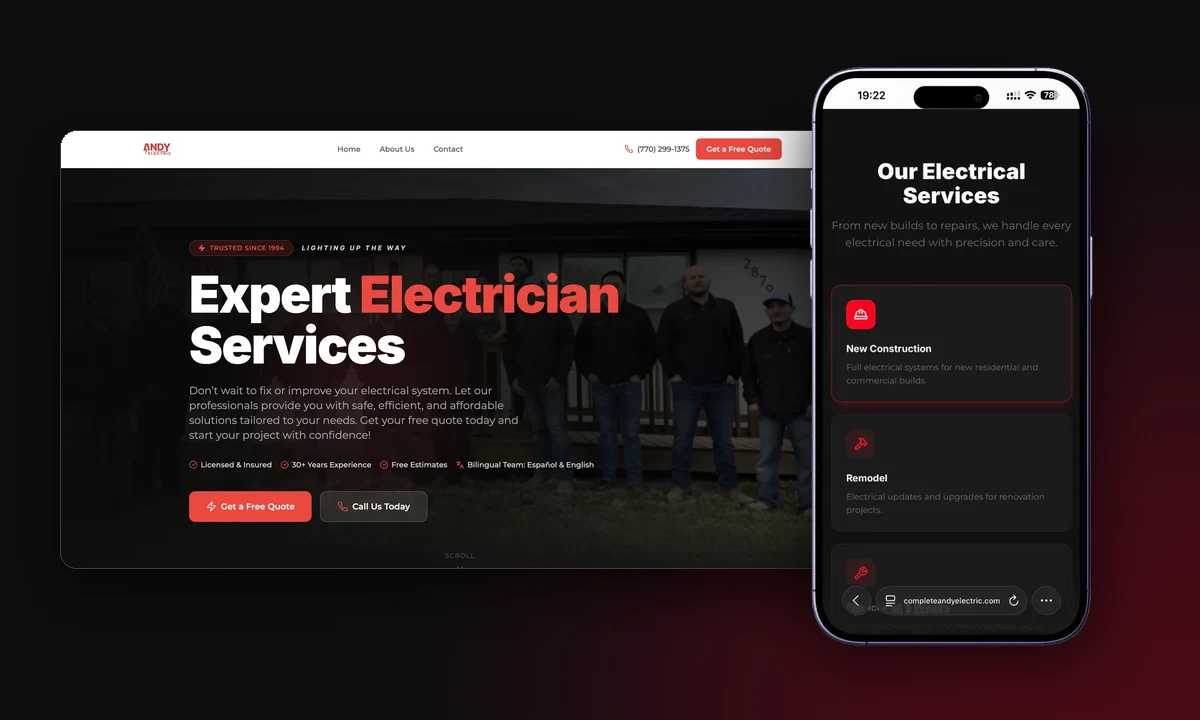
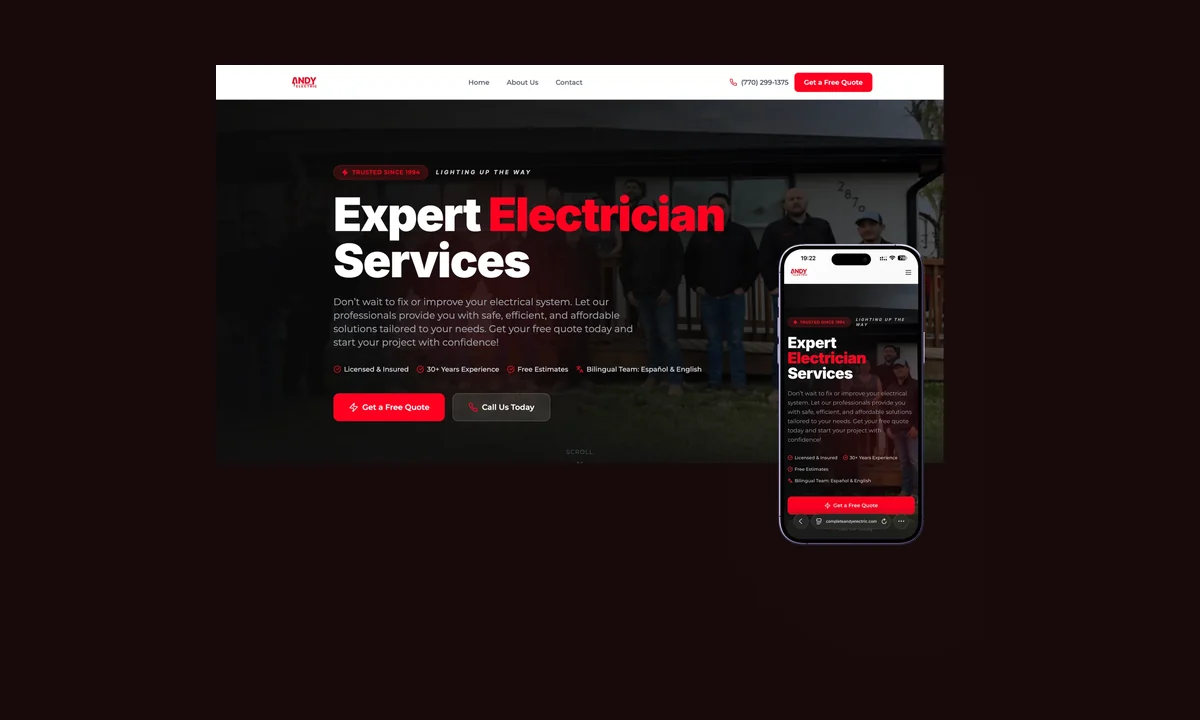
Portadas: título y puntos clave en cada caso, pantallas completas sin recorte
Cada caso abre con un título corto y tres puntos (fr/en/es) junto a la
imagen. Nuevas composiciones para Andy, Ublo, Bellpi, JumboMana y Spotify
con las pantallas enteras, usadas también en las cards del Home.

Claude-Session: https://claude.ai/code/session_01BbjSfeKB5Ss7SAz8rEvxyb

Changed region(s): [[0.0308, 0.0917, 1.0, 1.0], [0.37, 0.7639, 0.4008, 0.7944]]

diff --git a/projects/iridian/index.html b/projects/iridian/index.html
@@ -177,7 +177,7 @@
 <h1 class="cs-title">Iridian</h1>
 <p class="cs-role" data-i18n="iridian.role2">Partenaire technologique · Logiciel, données et IA</p>
 <p class="cs-kicker">Product Designer · 2023-2024</p>
-<figure class="cs-cover"><div class="cs-ph cs-ph--cover" role="img" aria-label="Iridian, aperçu des projets" data-i18n-aria-label="iridian.img1"><span data-i18n="iridian.img1">Iridian, aperçu des projets</span></div></figure>
+<figure class="cs-cover cs-cover--hero"><figcaption class="cs-hero"><p class="cs-hero__title" data-i18n="hero.iridian.title">Des systèmes que les entreprises font tourner chaque jour</p><ul class="cs-hero__list"><li data-i18n="hero.iridian.b1">Plateformes sur mesure, intégration ERP et CRM</li><li data-i18n="hero.iridian.b2">Données, BI, IA et automatisation</li><li data-i18n="hero.iridian.b3">Clients en Amérique latine, aux États-Unis et en Europe</li></ul></figcaption><div class="cs-hero__media"><div class="cs-ph cs-ph--cover" role="img" aria-label="Iridian, aperçu des projets" data-i18n-aria-label="iridian.img1"><span data-i18n="iridian.img1">Iridian, aperçu des projets</span></div></div></figure>
 <h2 class="cs-heading cs-heading--context" data-i18n="andy-electric.t011">Contexte</h2>
 <p class="cs-body" data-i18n="iridian.p1">Iridian est un partenaire technologique qui conçoit, construit et opère des systèmes critiques pour des entreprises en Amérique latine, aux États-Unis et en Europe. L'entreprise ne se présente pas comme une agence de projets, mais comme un partenaire sur le long terme.</p>
 <p class="cs-body" data-i18n="iridian.p2">Ses expertises couvrent quatre domaines : les systèmes et plateformes sur mesure (intégration ERP et CRM, cloud), les données et la business intelligence, l'IA et l'automatisation des processus, et l'opération des systèmes en production. Ses études de cas touchent le retail, l'oil &amp; gas, l'éducation, la logistique ou encore le gaming.</p>

diff --git a/projects/qualnet/index.html b/projects/qualnet/index.html
@@ -177,7 +177,7 @@
 <h1 class="cs-title">Qualnet</h1>
 <p class="cs-role" data-i18n="qualnet.role">Éditeur français de logiciels qualité · Groupe Imagine Human</p>
 <p class="cs-kicker" data-i18n="h2.r.qualnet">Product Owner · 2026 à aujourd'hui</p>
-<figure class="cs-cover"><img alt="Qualnet, aperçu du logiciel" data-i18n-alt="qualnet.img1" decoding="async" fetchpriority="high" height="720" src="../../public/cover-qualnet.webp" width="1200"/></figure>
+<figure class="cs-cover cs-cover--hero"><figcaption class="cs-hero"><p class="cs-hero__title" data-i18n="hero.qualnet.title">Faire évoluer une suite qualité no-code</p><ul class="cs-hero__list"><li data-i18n="hero.qualnet.b1">Backlog produit et sprints de deux semaines</li><li data-i18n="hero.qualnet.b2">IA intégrée à la plateforme</li><li data-i18n="hero.qualnet.b3">Gestion documentaire, audits, non-conformités</li></ul></figcaption><div class="cs-hero__media"><img alt="Qualnet, aperçu du logiciel" data-i18n-alt="qualnet.img1" decoding="async" fetchpriority="high" height="720" src="../../public/cover-qualnet.webp" width="1200"/></div></figure>
 <h2 class="cs-heading cs-heading--context" data-i18n="andy-electric.t011">Contexte</h2>
 <p class="cs-body" data-i18n="qualnet.p1">Qualnet est un éditeur français de logiciels qualité créé en 1997, qui a rejoint le groupe Imagine Human en 2026. Ses solutions no-code aident les organisations privées et publiques à simplifier, structurer et piloter leurs démarches qualité.</p>
 <p class="cs-body" data-i18n="qualnet.p2">La suite couvre la gestion documentaire qualité (Qualnet DOC), la dématérialisation des processus (Qualnet DYNAMIC) et le management de la qualité : non-conformités, audits, plans d'actions, évaluation des fournisseurs et indicateurs. Elle est proposée en SaaS ou on-premise et utilisée dans la santé, l'agroalimentaire, la pharmacie, la banque-assurance et l'industrie.</p>

diff --git a/styles/case-theme.css b/styles/case-theme.css
@@ -1346,3 +1346,74 @@ body[data-page] .cs-carousel.cs-mcarousel {
 body[data-page] .cs-hide-m {
   display: none !important;
 }
+
+/* ── Portada con título y puntos clave (todos los casos, 2026-11-14) ──
+   Texto a la izquierda, pantallas completas a la derecha (sin recorte, sin pasar su tamaño real). */
+body[data-page] {
+  --cs-hero-bg: #111;
+  --cs-hero-ink: #f2f2f2;
+  --cs-hero-muted: #c4c4c4;
+}
+body[data-page] .cs-cover--hero {
+  display: grid;
+  grid-template-columns: minmax(0, 4fr) minmax(0, 7fr);
+  align-items: center;
+  gap: clamp(24px, 4vw, 56px);
+  padding: clamp(24px, 4vw, 56px);
+  background: var(--cs-hero-bg);
+  color: var(--cs-hero-ink);
+}
+body[data-page] .cs-hero__title {
+  margin: 0 0 20px;
+  font-size: clamp(22px, 2.2vw, 30px);
+  line-height: 1.2;
+  font-weight: 600;
+  color: var(--cs-hero-ink);
+}
+body[data-page] .cs-hero__list {
+  display: grid;
+  gap: 12px;
+  margin: 0;
+  padding: 0;
+  list-style: none;
+  font-size: 15px;
+  line-height: 1.45;
+  color: var(--cs-hero-muted);
+}
+body[data-page] .cs-hero__list li {
+  position: relative;
+  padding-left: 20px;
+}
+body[data-page] .cs-hero__list li::before {
+  content: "";
+  position: absolute;
+  left: 0;
+  top: 0.7em;
+  width: 10px;
+  height: 1px;
+  background: var(--cs-accent);
+}
+body[data-page] .cs-hero__media {
+  display: flex;
+  justify-content: center;
+  min-width: 0;
+}
+body[data-page] .cs-cover--hero img {
+  width: auto;
+  max-width: 100%;
+  height: auto;
+  max-height: 460px;
+  aspect-ratio: auto;
+  object-fit: contain;
+}
+body[data-page] .cs-cover--hero .cs-ph--cover {
+  width: 100%;
+}
+@media (max-width: 768px) {
+  body[data-page] .cs-cover--hero {
+    grid-template-columns: 1fr;
+  }
+  body[data-page] .cs-cover--hero img {
+    max-height: 360px;
+  }
+}

diff --git a/projects/spotify/index.html b/projects/spotify/index.html
@@ -176,7 +176,7 @@
 <h1 class="cs-title" data-i18n="spotify.title">Spotify</h1>
 <p class="cs-role" data-i18n="spotify.role">Repenser trois moments de l'expérience Spotify</p>
 <p class="cs-kicker" data-i18n="spotify.kicker">UX/UI Designer · Bootcamp Coderhouse · 2023</p>
-<figure class="cs-cover"><img alt="Spotify, les trois fonctionnalités : paiements, playlists et communauté" decoding="async" fetchpriority="high" height="720" src="../../public/cover-spotify.webp" width="1200"/></figure>
+<figure class="cs-cover cs-cover--hero"><figcaption class="cs-hero"><p class="cs-hero__title" data-i18n="hero.spotify.title">Trois moments de Spotify, repensés</p><ul class="cs-hero__list"><li data-i18n="hero.spotify.b1">Changer de moyen de paiement sans quitter l'app</li><li data-i18n="hero.spotify.b2">Noter et commenter un épisode de podcast</li><li data-i18n="hero.spotify.b3">Enregistrer une chanson dans une playlist en trois gestes</li></ul></figcaption><div class="cs-hero__media"><img alt="Spotify, les trois fonctionnalités : paiements, playlists et communauté" decoding="async" fetchpriority="high" height="1035" src="../../public/hero-spotify.webp" width="1600"/></div></figure>
 <h2 class="cs-heading cs-heading--context" data-i18n="andy-electric.t011">Contexte</h2>
 <p class="cs-body cs-lead"><strong data-i18n="spotify.ctx.lead">Je redessine Spotify parce que l'expérience ne se limite pas à écouter de la musique.</strong></p>
 <p class="cs-body" data-i18n="spotify.ctx.body">Projet du bootcamp UX/UI de Coderhouse : repenser trois moments de l'application Spotify à partir de ce que vivent vraiment ses utilisateurs, de l'enquête aux écrans finaux. Le cas commence par le résultat, les trois fonctionnalités, puis raconte comment j'y suis arrivé en concevant et en testant.</p>

diff --git a/projects/ublo/index.html b/projects/ublo/index.html
@@ -177,7 +177,7 @@
 <h1 class="cs-title" data-i18n="ublo.t002">Ublo</h1>
 <p class="cs-role" data-i18n="ublo.t003">Plateforme de gestion immobilière · France</p>
 <p class="cs-kicker" data-i18n="ublo.t001">UX Designer · 2024-2025</p>
-<figure class="cs-cover"><img alt="Ublo, aperçu du projet" decoding="async" fetchpriority="high" height="720" src="../../public/cover-ublo.webp" width="1200"/></figure>
+<figure class="cs-cover cs-cover--hero"><figcaption class="cs-hero"><p class="cs-hero__title" data-i18n="hero.ublo.title">Rendre la gestion locative plus lisible</p><ul class="cs-hero__list"><li data-i18n="hero.ublo.b1">Plus de 15 fonctionnalités et 20 améliorations livrées</li><li data-i18n="hero.ublo.b2">Audit UX complet de la plateforme</li><li data-i18n="hero.ublo.b3">Rédaction UX et spécifications prêtes pour le développement</li></ul></figcaption><div class="cs-hero__media"><img alt="Ublo, aperçu du projet" decoding="async" fetchpriority="high" height="880" src="../../public/hero-ublo.webp" width="1600"/></div></figure>
 <h2 class="cs-heading cs-heading--context" data-i18n="andy-electric.t011">Contexte</h2>
 <p class="cs-body" data-i18n-html="ublo.t004">En tant qu'UX Designer au sein de l'équipe Ublo, une <strong>plateforme de gestion immobilière basée en France avec plus de 2 000 utilisateurs et 20 clients dans tout le pays</strong>, mon rôle consistait à améliorer continuellement l'interface et l'expérience utilisateur globale.</p>
 <p class="cs-body" data-i18n-html="ublo.t005">J'ai travaillé de manière itérative sur plus de <strong>15 nouvelles fonctionnalités et 20 améliorations de la plateforme</strong>, apportant des améliorations continues directement alignées sur les retours clients et les exigences métier.</p>

diff --git a/projects/bellpi/index.html b/projects/bellpi/index.html
@@ -177,7 +177,7 @@
 <h1 class="cs-title" data-i18n="bellpi.t002">Bellpi</h1>
 <p class="cs-role" data-i18n="bellpi.t003">Plateforme e-commerce · Véhicules d'occasion · Colombie</p>
 <p class="cs-kicker" data-i18n="bellpi.t001">UX &amp; Service Designer · 2024</p>
-<figure class="cs-cover"><img alt="Bellpi, aperçu du projet" decoding="async" fetchpriority="high" height="720" src="../../public/cover-bellpi.webp" width="1200"/></figure>
+<figure class="cs-cover cs-cover--hero"><figcaption class="cs-hero"><p class="cs-hero__title" data-i18n="hero.bellpi.title">Acheter une voiture d'occasion sans intermédiaire</p><ul class="cs-hero__list"><li data-i18n="hero.bellpi.b1">Lancement de la version 1 de la plateforme</li><li data-i18n="hero.bellpi.b2">Parcours d'achat, de vente et de reprise</li><li data-i18n="hero.bellpi.b3">Bornes interactives en point de vente</li></ul></figcaption><div class="cs-hero__media"><img alt="Bellpi, aperçu du projet" decoding="async" fetchpriority="high" height="1200" src="../../public/hero-bellpi.webp" width="1315"/></div></figure>
 <h2 class="cs-heading cs-heading--context" data-i18n="andy-electric.t011">Contexte</h2>
 <p class="cs-body" data-i18n="bellpi.t004">Bellpi est une plateforme e-commerce innovante de vente et d'achat de véhicules d'occasion en Colombie, visant à transformer une expérience traditionnellement complexe en un parcours numérique 100 % centré utilisateur.</p>
 <p class="cs-body" data-i18n="bellpi.t005">En tant que UX &amp; Service Designer, j'ai contribué au lancement de la version 1 de la plateforme et à ses itérations successives :</p>

diff --git a/projects/jumbomana/index.html b/projects/jumbomana/index.html
@@ -176,7 +176,7 @@
 <h1 class="cs-title" data-i18n="jumbomana.t002">JumboMana</h1>
 <p class="cs-role" data-i18n="jumbomana.t003">Assistant IA · Aéroport Lyon-Saint-Exupéry</p>
 <p class="cs-kicker" data-i18n="jumbomana.t001">UX Designer · 2024</p>
-<figure class="cs-cover"><img alt="JumboMana, aperçu du projet" decoding="async" fetchpriority="high" height="720" src="../../public/cover-jumbo.webp" width="1200"/></figure>
+<figure class="cs-cover cs-cover--hero"><figcaption class="cs-hero"><p class="cs-hero__title" data-i18n="hero.jumbo.title">Un assistant IA pour s'orienter à l'aéroport</p><ul class="cs-hero__list"><li data-i18n="hero.jumbo.b1">Deux supports : borne tactile et mobile</li><li data-i18n="hero.jumbo.b2">Langue, son, restaurants et itinéraire en quelques gestes</li><li data-i18n="hero.jumbo.b3">Prototype testé sur les tâches clés</li></ul></figcaption><div class="cs-hero__media"><img alt="JumboMana, aperçu du projet" decoding="async" fetchpriority="high" height="1102" src="../../public/hero-jumbo.webp" width="1600"/></div></figure>
 <h2 class="cs-heading cs-heading--context" data-i18n="andy-electric.t011">Contexte</h2>
 <p class="cs-body" data-i18n="jumbomana.t004">Le défi était de concevoir une expérience claire et engageante, capable de capter l'attention dans un environnement aussi fréquenté sans être confondue avec de la publicité. L'interface devait faciliter une compréhension rapide des fonctionnalités, garantir une utilisation fluide et compléter efficacement les systèmes d'information existants à l'aéroport.</p>
 <ul class="cs-list cs-list--strong">

diff --git a/projects/bnf/index.html b/projects/bnf/index.html
@@ -176,7 +176,7 @@
 <h1 class="cs-title" data-i18n="bnf.t002">Musée de la BnF</h1>
 <p class="cs-role" data-i18n="bnf.t003">Jumeau numérique · Patrimoine culturel</p>
 <p class="cs-kicker" data-i18n="bnf.t001">UX Designer &amp; Service Designer · 2024</p>
-<figure class="cs-cover"><img alt="Musée de la BnF, aperçu du projet" decoding="async" fetchpriority="high" height="720" src="../../public/cover-bnf.webp" width="1200"/></figure>
+<figure class="cs-cover cs-cover--hero"><figcaption class="cs-hero"><p class="cs-hero__title" data-i18n="hero.bnf.title">Visiter le site Richelieu de la BnF depuis un écran</p><ul class="cs-hero__list"><li data-i18n="hero.bnf.b1">Jumeau numérique du bâtiment et des collections</li><li data-i18n="hero.bnf.b2">Analyse comparative d'expériences culturelles digitales</li><li data-i18n="hero.bnf.b3">Projet de master, Sorbonne, 2024</li></ul></figcaption><div class="cs-hero__media"><img alt="Musée de la BnF, aperçu du projet" decoding="async" fetchpriority="high" height="720" src="../../public/cover-bnf.webp" width="1200"/></div></figure>
 <h2 class="cs-heading cs-heading--context" data-i18n="andy-electric.t011">Contexte</h2>
 <p class="cs-body" data-i18n="bnf.t004">Application web conçue pour créer un jumeau numérique mettant en valeur le patrimoine architectural et les collections du site Richelieu de la Bibliothèque nationale de France. Le projet vise à offrir une expérience culturelle immersive combinant visite virtuelle 3D, découverte des collections et streaming de contenus documentaires.</p>
 <div class="cs-img-box cs-only-mobile">

diff --git a/projects/paramo/index.html b/projects/paramo/index.html
@@ -177,7 +177,7 @@
 <h1 class="cs-title" data-i18n="paramo.t001">ParamoTotem</h1>
 <p class="cs-role" data-i18n="paramo.t002">Experience Designer</p>
 <p class="cs-kicker" data-i18n="paramo.t005">Projet expérimental</p>
-<figure class="cs-cover"><img alt="ParamoTotem, aperçu du projet" decoding="async" fetchpriority="high" height="720" src="../../public/cover-paramo.webp" width="1200"/></figure>
+<figure class="cs-cover cs-cover--hero"><figcaption class="cs-hero"><p class="cs-hero__title" data-i18n="hero.paramo.title">Le páramo colombien, station par station</p><ul class="cs-hero__list"><li data-i18n="hero.paramo.b1">Installation immersive et interactive</li><li data-i18n="hero.paramo.b2">Une station par espèce emblématique</li><li data-i18n="hero.paramo.b3">Projet expérimental</li></ul></figcaption><div class="cs-hero__media"><img alt="ParamoTotem, aperçu du projet" decoding="async" fetchpriority="high" height="720" src="../../public/cover-paramo.webp" width="1200"/></div></figure>
 <h2 class="cs-heading cs-heading--context" data-i18n="andy-electric.t011">Contexte</h2>
 <p class="cs-body" data-i18n="paramo.t003">Projet expérimental conçu pour créer une expérience immersive et interactive inspirée des écosystèmes naturels du páramo colombien, à travers des stations thématiques dédiées à chaque espèce emblématique.</p>
 <ul class="cs-list">

diff --git a/projects/andy-electric/index.html b/projects/andy-electric/index.html
@@ -169,7 +169,7 @@
 <h1 class="cs-title" data-i18n="andy-electric.t002">Andy Electric</h1>
 <p class="cs-role" data-i18n="andy-electric.t003">Branding · Site web · Génération de leads · USA</p>
 <p class="cs-kicker" data-i18n="andy-electric.t001">Brand &amp; UX Designer · 2025-2026</p>
-<figure class="cs-cover"><img alt="Andy Electric, aperçu du projet" decoding="async" fetchpriority="high" height="720" src="../../public/cover-andy.webp" width="1200"/></figure>
+<figure class="cs-cover cs-cover--hero"><figcaption class="cs-hero"><p class="cs-hero__title" data-i18n="hero.andy.title">Une marque et un site pour décrocher plus de chantiers</p><ul class="cs-hero__list"><li data-i18n="hero.andy.b1">Identité refaite : logo, typographies, uniformes, véhicules</li><li data-i18n="hero.andy.b2">Site web construit autour de la demande de devis</li><li data-i18n="hero.andy.b3">Conçu et développé avec Figma et Claude Code</li></ul></figcaption><div class="cs-hero__media"><img alt="Andy Electric, aperçu du projet" decoding="async" fetchpriority="high" height="1200" src="../../public/hero-andy.webp" width="1560"/></div></figure>
 </header>
 <div class="cs-block">
 <h2 class="cs-heading" data-i18n="andy-electric.t011">Contexte</h2>

diff --git a/index.html b/index.html
@@ -263,8 +263,8 @@
 <p class="pcard__role">UX &amp; Service Designer · 2024</p>
 <p class="pcard__hook" data-i18n="cards.hook.bnf">Explorer le site Richelieu salle par salle grâce à un jumeau numérique.</p>
 </a>
-<a class="pcard" data-reveal="" href="./projects/spotify/index.html" data-bg="./public/cover-spotify-card.webp">
-<div class="pcard__media"><img alt="" class="pcard__img" decoding="async" loading="lazy" src="./public/cover-spotify-card.webp"/></div>
+<a class="pcard" data-reveal="" href="./projects/spotify/index.html" data-bg="./public/cover-spotify.webp">
+<div class="pcard__media"><img alt="" class="pcard__img" decoding="async" loading="lazy" src="./public/cover-spotify.webp"/></div>
 <h3 class="pcard__title">Spotify</h3>
 <p class="pcard__role">UX Designer · 2025</p>
 <p class="pcard__hook" data-i18n="cards.hook.spotify">Trois nouvelles fonctionnalités pour Spotify, testées avec de vrais utilisateurs.</p>
